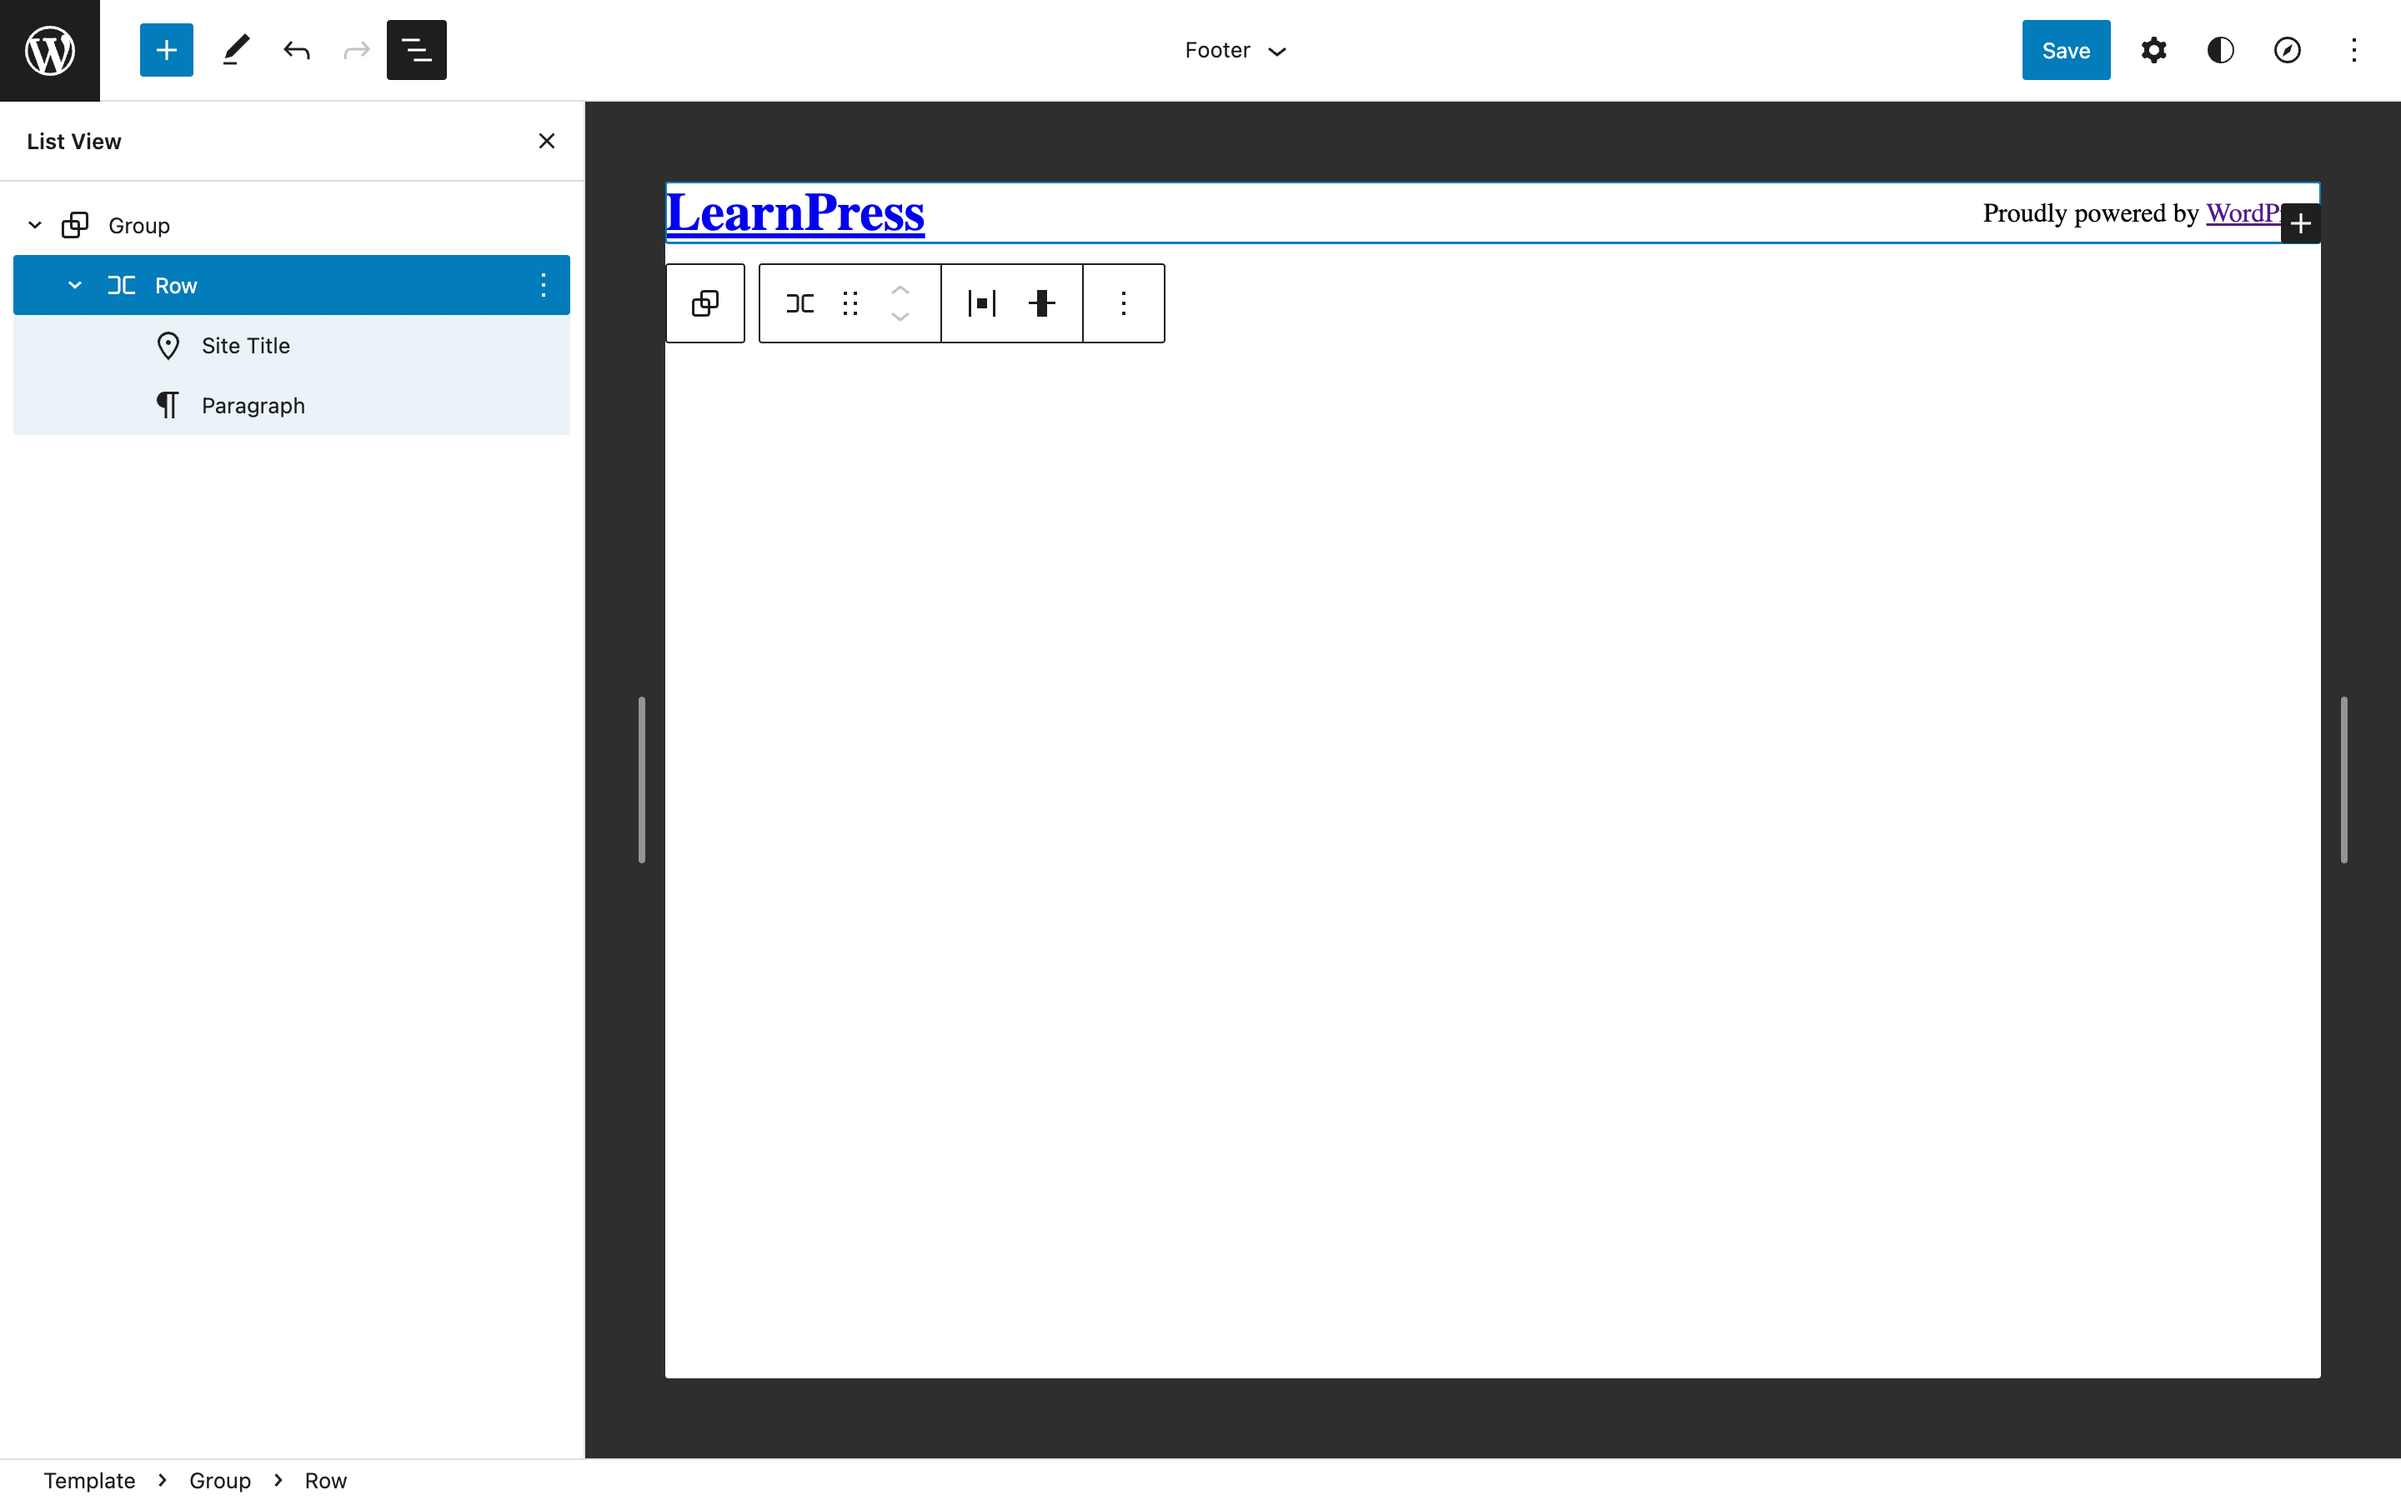
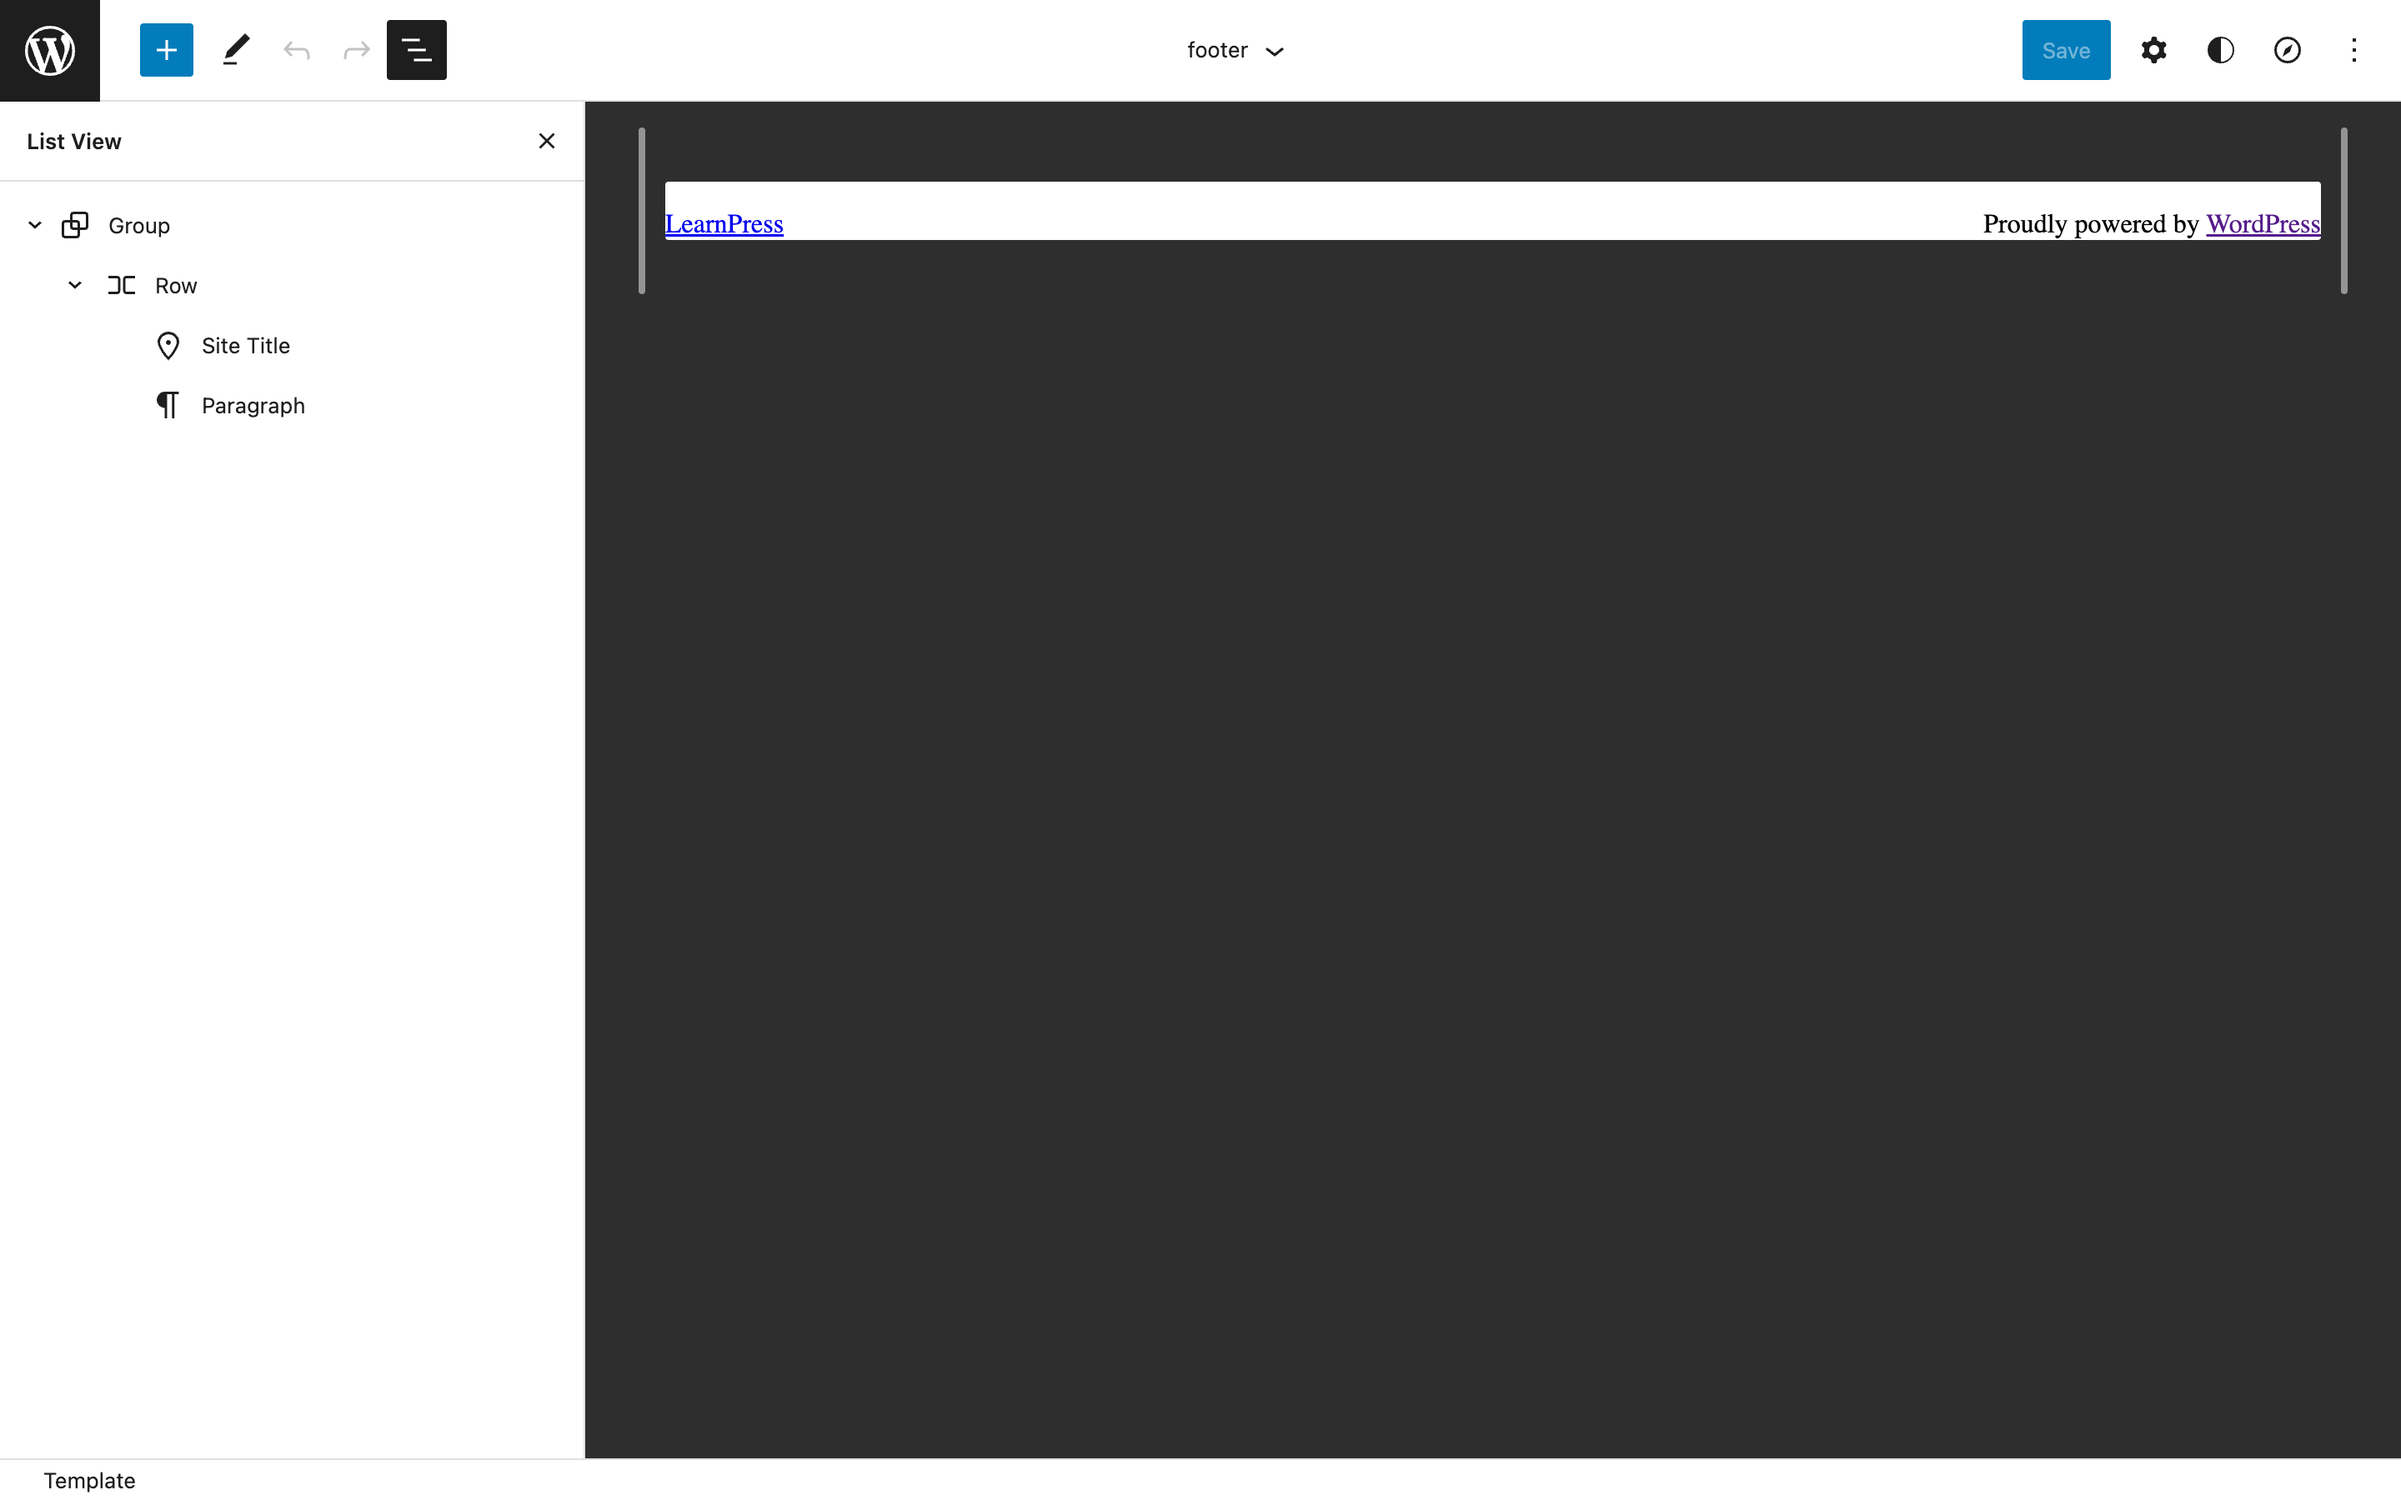
Module 1 updates

diff --git a/module-02/03-Creating-Primary-Templates.md b/module-02/03-Creating-Primary-Templates.md
@@ -1,6 +1,6 @@
 # Creating a Primary Templates
 
-As discussed in the last [Create a Block Theme (Low-Code) course](https://learn.wordpress.org/create-a-block-theme/), the primary templates are:
+As discussed in the [Create a Block Theme (Low-Code) course](https://learn.wordpress.org/create-a-block-theme/), the primary WordPress templates are:
 - index
 - singular
 - archive
@@ -10,13 +10,25 @@ As discussed in the last [Create a Block Theme (Low-Code) course](https://learn.
 - 404
 - search
 
-In the recap of templates lesson, you created the index and page templates. Now, you can create the rest of the primary templates in the editor. A good place to start would be the single template, as it would be used for displaying a single post.
+These are the minimum templates that a WordPress theme needs to have in order to cover all content use cases. 
+
+In the recap of templates lesson, you created the index and page templates. Now, you can create the rest of the primary templates in the editor. A good place to start would be the single post template, as it would be used for displaying a single post, and also as a fallback for any custom post type.
 
 ## Template Content
 
-As mentioned in the first lesson of this module, you will be building the templates for a this theme, based on the Twenty Twenty Three theme.
+As mentioned in the first lesson of this module, you will be building the templates, based on the Twenty Twenty Three theme.
 
 ![Twenty Twenty Three Designs](/images/module-02/lesson-02/twenty-twenty-three-design.png)
+
+If you look at the Base Theme, and zoom into the Single Post layout, you can see the following elements:
+1. It uses the header and footer template parts.
+2. It contains the featured image, at 1000px wide
+3. This is followed by the post title, also at 1000px wide
+4. Then the post content, which is 650px wide
+5. Next is the post meta, which is 1000px wide
+6. Finally, the comments section, which is 650px wide
+
+Take a look at the theme.json code that you added in the last lesson, specifically the `layout` setting. The `contentSize` and `wideSize` layout settings match the sizes in the design. You would have set these values from the designs you were given when you created the global settings and styles in the previous step.
 
 ## Create a Primary Template
 
@@ -28,7 +40,19 @@ Creating the single template follows the same process you followed when creating
 
 The editor will create the single template, and populate it with a copy of the content from your index template. You can then edit the template to add/remove the content you want to display for a single post. 
 
-For now, you can leave the template as is, save it, and then move on to creating the other primary templates:
+> **Do:** Delete all the content from the new single post template, except for the header and footer
+
+Based on the layout of the Single Post template, you can start by adding the following layout blocks:
+
+> **Do:** Create the Single Post template layout
+> 1. Add the header Template Part
+> 2. Add a **Group** block to serve as the content container
+>    1. Add a Group block inside the content container Group block. We'll call this the headline Group block, and it will contain the post title and featured image
+>    2. Add a Spacer block after the headline Group block
+>    3. Add the Post Content block after the Spacer
+>    4. Add another Spacer after the Post Content block
+>    5. Add another Group block after the second Spacer block. We'll call this the postmeta Group block. It will contain the post meta data and the comments section
+> 3. Finally, add the footer Template Part
 
 - Archive
 - Front Page - the home template

diff --git a/module-02/02-Converting-the-Style-Guide-to-theme.json.md b/module-02/02-Converting-the-Style-Guide-to-theme.json.md
@@ -112,8 +112,6 @@ The process outline above is the same for any setting or style you want to apply
 
 Styles can be applied globally, as we did for the typography, or to specific blocks.
 
-
-
 > **Note**
 > To speed up this process, it's also possible to copy exiting settings and styles from existing themes, and update the values to match your theme.
 
@@ -304,6 +302,58 @@ For the purposes of this lesson, we've gone ahead and done some of the groundwor
     }
   }
 }
+```
+
+Once you've updated your theme.json file, refresh the Site editor, and you should see a bunch of differences.
+
+![Settings and Styles applied](/images/module-02/lesson-02/updated-theme-json-applied.png)
+
+## Style Before Layout
+
+Typically, when developing a theme, you would define the theme settings and styles first, based on the designs, and then start building the templates and template parts. 
+
+However, in the previous module we created the header and footer templates first, without any styles. So now might be a good time to review the header and footer template parts, and make any necessary changes based on the designs.
+
+### Layout Sizes
+
+If you take a look at any of the template designs, you'll notice the following commonalities:
+
+1. The largest element on any page is 1000 pixels wide (eg featured images, titles, latest posts etc)
+3. Any text content is contained within a 650 pixel wide area
+
+> **Note:** The actual text content size is 655 pixels wide in the designs, but it's a good idea to stick to round numbers in web design, so we'll go with 650.
+
+These two layout values are set in the theme.json `layout` setting, as follows:
+
+```
+    ...
+    "layout": {
+      "contentSize": "650px",
+      "wideSize": "1000px"
+    },
+    ...
+```
+
+Based on this, you can update your header and footer template parts to use the new `layout` `wideSize` setting:
+
+> **Do:** 
+> 1. Navigate to the Template Parts, and select the header template part
+> 2. Select the **Row** block that contains the Site Title and Navigation
+> 3. Change the Alignment from None to Wide width
+> 4. Save the template
+
+This will force the header content to always display at a width of 1000 pixels across the site. Do the same for the footer template
+
+> **Do:**
+> 1. Navigate to the Template Parts, and select the footer template part
+> 2. Select the **Row** block that contains the Site Title and "powered by WordPress" text
+> 3. Change the Alignment from None to Wide width
+> 4. Save the template
+
+Then take a look at the page template you created earlier, and you will see how the header and footer are now aligned to the 1000 pixel wide layout.
+
+
+
 ```
 
 ## Exporting Styles Applied in the Global Styles Interface

diff --git a/module-01/02-Review-Templates.md b/module-01/02-Review-Templates.md
@@ -109,13 +109,14 @@ The page template will be created, and you'll be taken to the editor to add bloc
 
 > **Do:** Delete the Query Loop from the new page template, so you have an empty page template
 
-Because a page in WordPress is merely a custom post type, you can use the Post Title and Post Content blocks to render the title and content of a page in the template. You can also use Group blocks to logically group specific blocks, based on the design.
+Because a page in WordPress is merely a custom post type, you can use the Post Title, Post Featured Image, and Post Content blocks to render the title and content of a page in the template. You can also use Group blocks to logically group specific blocks, based on the design.
 
 > **Do:**
 > 1. Add a **Group** block to the template.
 > 2. Add a **Post Content** block to the group.
 > 3. Add another **Group** block to the template, before the **Post Content** block.
 > 4. Add a **Post Title** block to the second **Group** block.
+> 5. Add a **Post Featured Image** block to the second **Group** block.
 
 Your final page template should look something like this:
 
@@ -126,7 +127,9 @@ Now switch to the Code editor view, to see the block markup that makes up this p
 ```html
 <!-- wp:group {"layout":{"type":"constrained"}} -->
 <div class="wp-block-group"><!-- wp:group {"layout":{"type":"constrained"}} -->
-    <div class="wp-block-group"><!-- wp:post-title /--></div>
+    <div class="wp-block-group"><!-- wp:post-featured-image /-->
+
+        <!-- wp:post-title /--></div>
     <!-- /wp:group -->
 
     <!-- wp:post-content /--></div>

diff --git a/module-01/03-Review-Template-Parts.md b/module-01/03-Review-Template-Parts.md
@@ -56,9 +56,10 @@ Now create a footer template part for your theme. Then you can add some block co
 > 2. Add a **Group** block.
 > 3. Add a **Row** block to the **Group** block.
 > 4. Add the **Site Title** block to the **Row** block.
-> 5. Add a **Paragraph** block next to the **Site Title** block with the text "Proudly powered by WordPress"
-> 6. Add a link to the word WordPress in the **Paragraph** block that links to `https://wordpress.org/`.
-> 7. Change the **Justification** setting on the **Row** block to **Space between items**.
+> 5. Change the **Site Title** block settings to use a paragraph and not an h1 tag.
+> 6. Add a **Paragraph** block next to the **Site Title** block with the text "Proudly powered by WordPress"
+> 7. Add a link to the word WordPress in the **Paragraph** block that links to `https://wordpress.org/`.
+> 8. Change the **Justification** setting on the **Row** block to **Space between items**.
 
 ![Footer template part content](/images/module-01/lesson-03/editor-footer-template-part-content.png)
 
